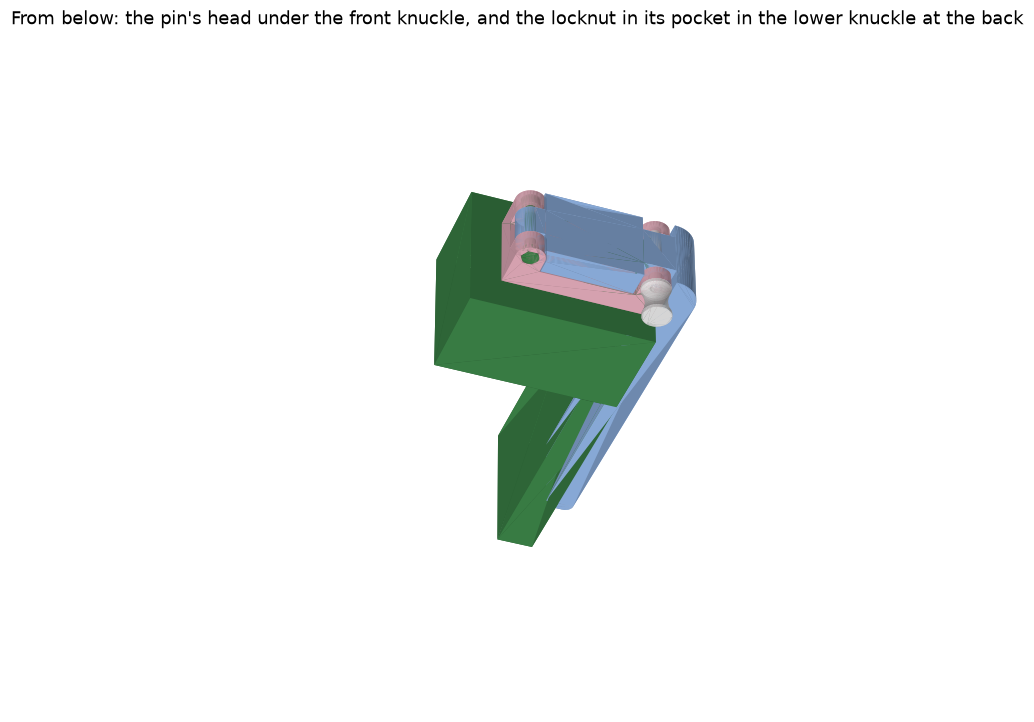
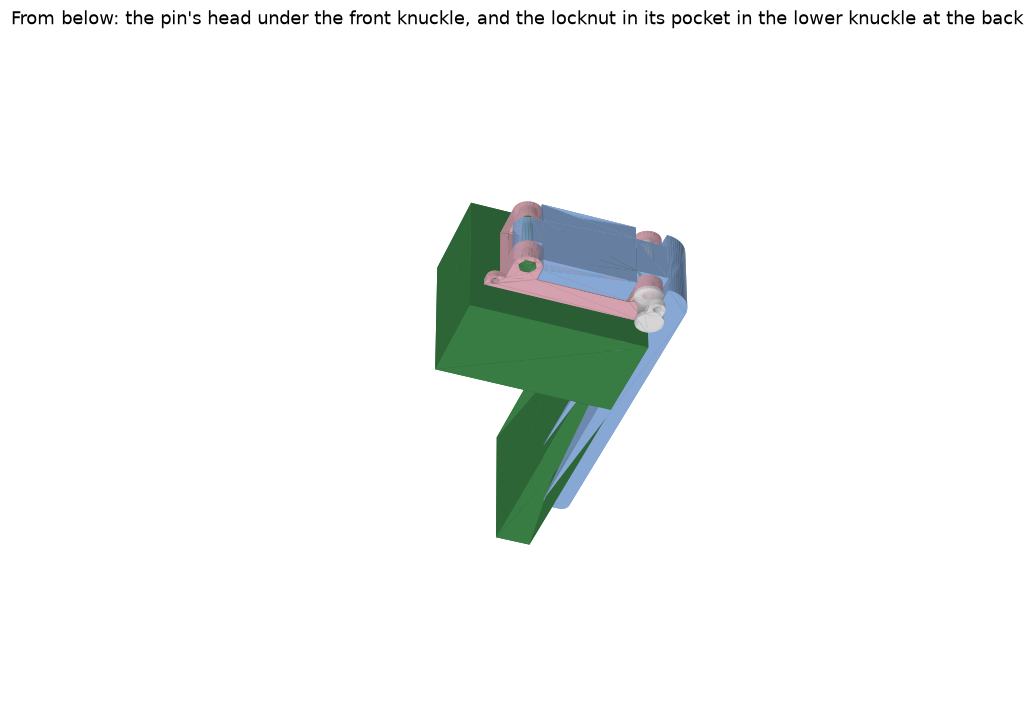
drawer-clamp: an eye on the pin's head and one behind the base's back end, to tie the pin to the base with a wire
Each eye has a 4 mm hole and lies on the plate when its piece prints.

diff --git a/parts/drawer-clamp/part.py b/parts/drawer-clamp/part.py
@@ -67,6 +67,9 @@ PIN_HEAD = 14  # the pin's head, across: as wide as a knuckle
 PIN_RIM = 1.5  # the straight rim at the head's underside and at its top, high
 PIN_GRIP = 14  # the head between its two rims, high: its side curves in there, for a finger and a thumb
 PIN_WAIST = 10.5  # the head at the middle of that curve, across
+EYE = 4  # the hole of each of the two eyes a wire ties the pin to the base through, across
+EYE_WALL = 2  # round that hole
+EYE_THICK = 3  # an eye, along its hole
 SHOWN = 15  # how far the pictures show the cupboard's side and the drawer's front past the clamp
 DRAWER_SHOWN = 18  # how thick the pictures show the drawer's front: it is not measured
 
@@ -90,6 +93,8 @@ WEB_LOW = FRONT_LUG + LUG_GAP  # the underside of the arm's leg between the fron
 WEB_HIGH = HEIGHT - FRONT_LUG - LUG_GAP  # the top of the arm's leg between the front knuckles, up
 PIN_HEAD_HIGH = 2 * PIN_RIM + PIN_GRIP  # the pin's head, down from the base's underside
 PIN_HOLE = PIN / 2 + PIN_ROOM  # the radius of the hole the pin slides through
+EYE_OUT = EYE / 2 + EYE_WALL  # the radius of an eye's round outside
+PIN_EYE = PIN_HEAD / 2 + EYE / 2 + EYE_WALL / 2  # the eye on the pin's head, from the pin's middle: its hole clears the head
 ARM_BACK = -CLEAR  # the back of the arm's leg across the front, which faces the side's front edge and the drawer's front
 HEAD_SINK = BOLT_HEAD_HIGH  # the hole for the bolt's head, down from the base's top: the head is level with the top
 NUT_SINK = NUT_HIGH  # the pocket for the nut, up from the base's underside: the nut is level with the underside, and so is the bolt's end
@@ -128,6 +133,16 @@ def base():
     for z in (0, HEIGHT - FRONT_LUG):
         whole += Pos(0, 0, z) * extrude(front, FRONT_LUG)
     whole -= bolt_hole() + pin_hole()
+    # The eye stands out behind the base's back end, against the cupboard's side and level with the underside, with
+    # its hole upright. Its outline is flat against the side, which is the face on the plate, and round at the
+    # corner away from it.
+    eye = (
+        Pos(-EYE_OUT, LENGTH + EYE_OUT) * Circle(EYE_OUT)
+        + Pos(-2 * EYE_OUT, LENGTH - JOIN) * Rectangle(2 * EYE_OUT, EYE_OUT + JOIN, align=CORNER)
+        + Pos(-EYE_OUT, LENGTH + EYE_OUT) * Rectangle(EYE_OUT, EYE_OUT, align=CORNER)
+        - Pos(-EYE_OUT, LENGTH + EYE_OUT) * Circle(EYE / 2)
+    )
+    whole += extrude(eye, EYE_THICK)
     whole -= Pos(BOLT_X, BOLT_Y, HEIGHT - HEAD_SINK) * Cylinder(HEAD_HOLE, HEAD_SINK + CUT, align=MIN)
     # The nut's pocket has a flat toward the plate and one away from it, so on the plate its top is a flat bridge.
     hexagon = Rot(0, 0, 30) * RegularPolygon(NUT_POCKET, 6, major_radius=False)
@@ -182,6 +197,10 @@ def pin():
         + Pos(0, 0, PIN_POINT) * Cylinder(PIN / 2, HEIGHT - PIN_POINT + JOIN, align=MIN)
         + Pos(0, 0, HEIGHT) * revolve(Face(outline), Axis.Z)
     )
+    # The eye lies at the head's end, which is the face on the plate, and points away from the cupboard's side.
+    eye = Pos(-PIN_EYE, 0) * Circle(EYE_OUT) + Pos(-PIN_EYE, -EYE_OUT) * Rectangle(PIN_EYE, 2 * EYE_OUT, align=CORNER)
+    eye -= Pos(-PIN_EYE, 0) * Circle(EYE / 2)
+    whole += Pos(0, 0, HEIGHT + PIN_HEAD_HIGH - EYE_THICK) * extrude(eye, EYE_THICK)
     return Pos(BOLT_X, PIN_Y, HEIGHT) * Rot(180, 0, 0) * whole
 
 

diff --git a/parts/drawer-clamp/README.md b/parts/drawer-clamp/README.md
@@ -83,9 +83,16 @@ across and 17 mm high and sits under the lower knuckle. The pin and its head are
 has a straight rim 1.5 mm high at its underside and at its top. Between them its side curves in
 over 14 mm, to 10.5 mm across at the middle, for a finger and a thumb.
 
+A wire ties the pin to the base, through an eye on each. Each eye is 3 mm thick, with a 4 mm
+hole and 2 mm round it. The pin's eye lies at the end of its head, level with the head's
+underside, and stands 7 mm out from the head. The base's eye stands 8 mm out behind the base's
+back end, against the cupboard's side and level with the base's underside, with its hole
+upright. Its corner away from the side is round.
+
 The base prints on its back. The knuckles stand up from the plate, round on top, and the
 screws' holes are upright. The bolt's hole, the hole for its head, the nut's pocket and the pin's hole lie
-level. Their tops bridge 5 mm, 9.5 mm, 5 mm and 6.5 mm, the pocket's along one of its flats. The base
+level. Their tops bridge 5 mm, 9.5 mm, 5 mm and 6.5 mm, the pocket's along one of its flats. The
+eye lies on the plate behind the base's plate, with its hole level, 4 mm across. The base
 takes no supports. The knuckles' layers lie across them. The bolt bends each knuckle 0.05 mm at
 most before it rests on the arm's knuckle, and from there the bolt presses the three together.
 
@@ -94,7 +101,8 @@ arm along its layers. Its knuckle and the neck to it hang 10 mm above the plate,
 between the front knuckles 7.3 mm. Both print on supports, which the plate turns on for this
 piece (`enable_support`).
 
-The pin prints upright, standing on its head, with its point up, and takes no supports. Above
+The pin prints upright, standing on its head, with its point up, and takes no supports. Its eye
+lies on the plate, with its hole upright. Above
 its waist the head's side leans out 28° from upright at most. Its
 layers lie across it, and the arm's pull shears them where the leg meets each front knuckle.
 
@@ -109,6 +117,7 @@ layers lie across it, and the arm's pull shears them where the leg meets each fr
 5. Tighten the bolt until the arm turns stiffly and stays where it is put.
 6. Swing the arm shut, round the corner and across the drawer's front.
 7. Push the pin up through the front knuckles, from below.
+8. Tie a wire through the pin's eye and the base's eye, long enough for the pin to come out.
 
 To open it, pull the pin out downward and swing the arm out.
 
